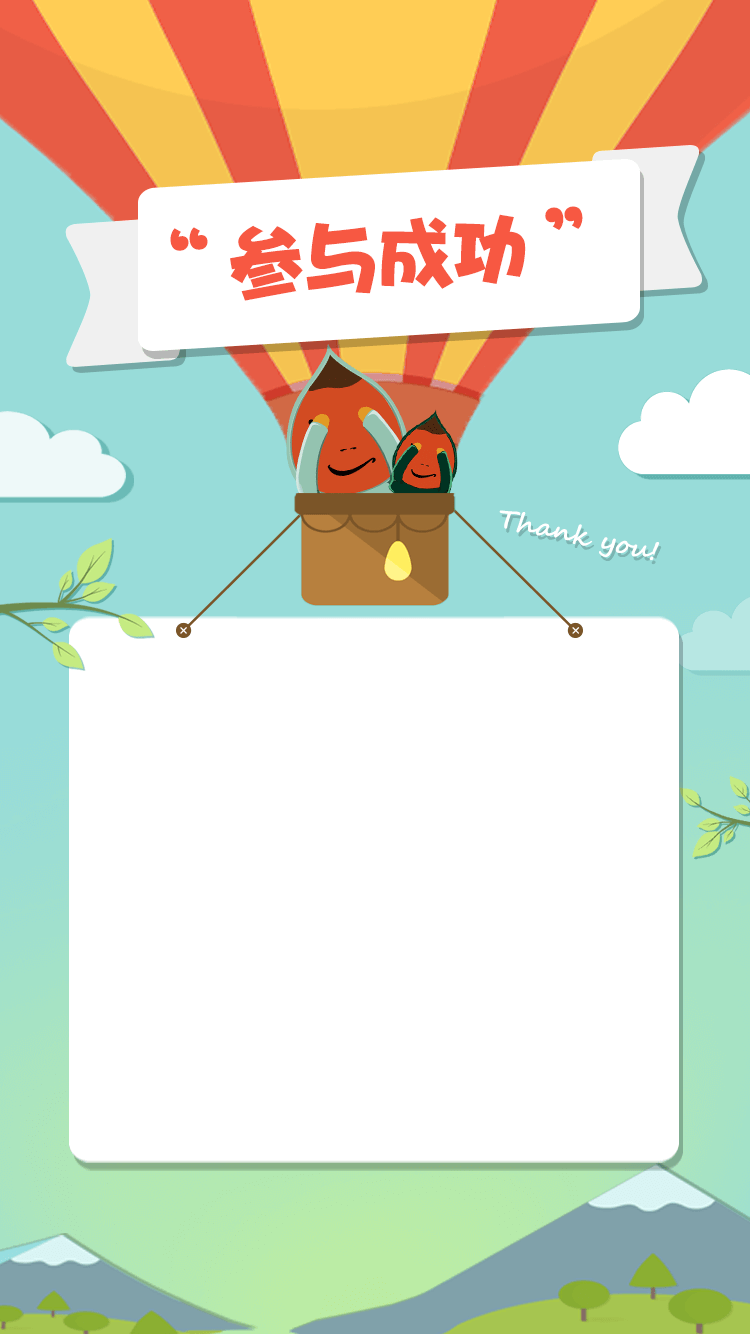
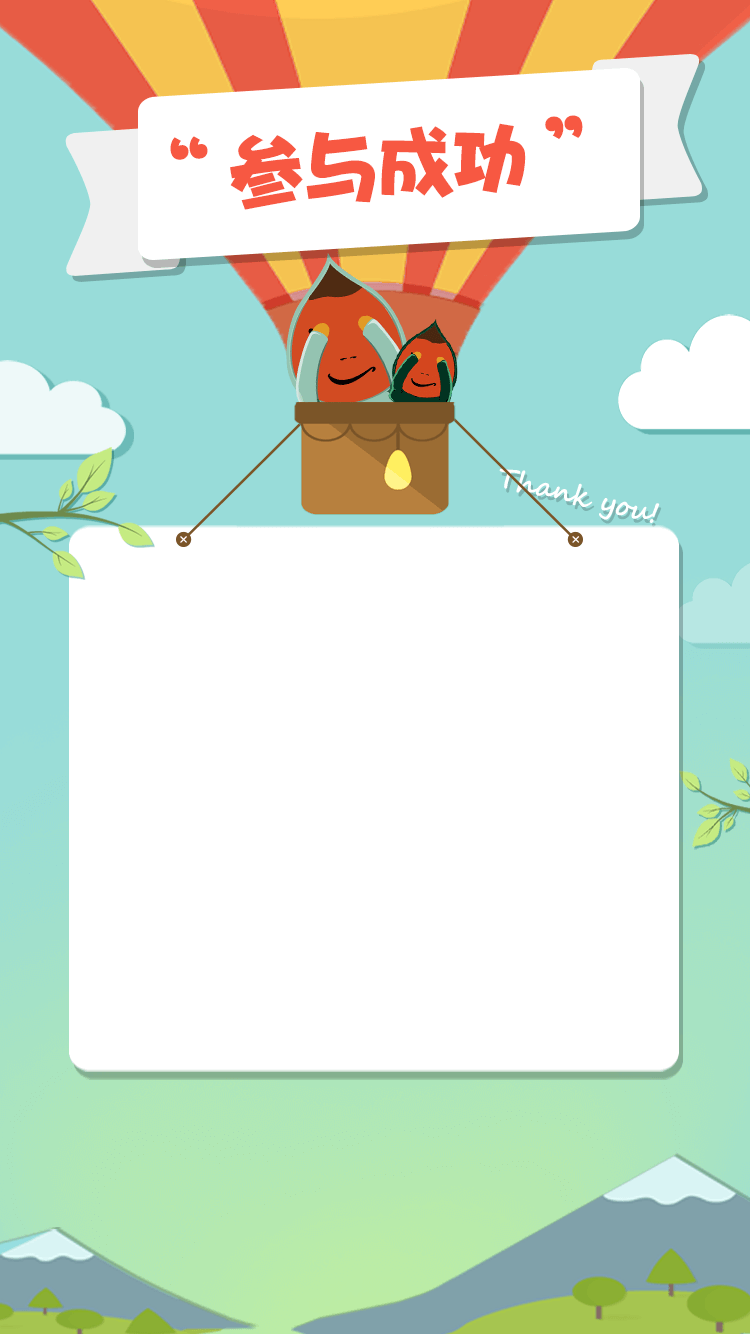
机场调整：调整参与成功页面高度

diff --git a/src/activity/airport/css/airport.css b/src/activity/airport/css/airport.css
@@ -82,6 +82,9 @@
 .airport-finish .page-finish {
   background-image: url('../img/airport_guess_finish.png');
 }
+.airport-finish .finish-content {
+  top: 41%;
+}
 .airport-finish .finish-content .fc-header .avatar {
   width: 75px;
 }
@@ -99,7 +102,7 @@
   margin-top: -2px;
 }
 .airport-finish .finish-content .fc-footer {
-  padding-top: 2%;
+  padding-top: 4%;
   background: none;
   text-align: center;
 }

diff --git a/src/activity/airport/css/airport.less b/src/activity/airport/css/airport.less
@@ -126,6 +126,8 @@
 
     .finish-content
     {
+        top:41%;
+
         .fc-header
         {
             .avatar
@@ -152,7 +154,7 @@
 
         .fc-footer
         {
-            padding-top: 2%;
+            padding-top: 4%;
             background: none;
             text-align: center;
             .clearfix();
